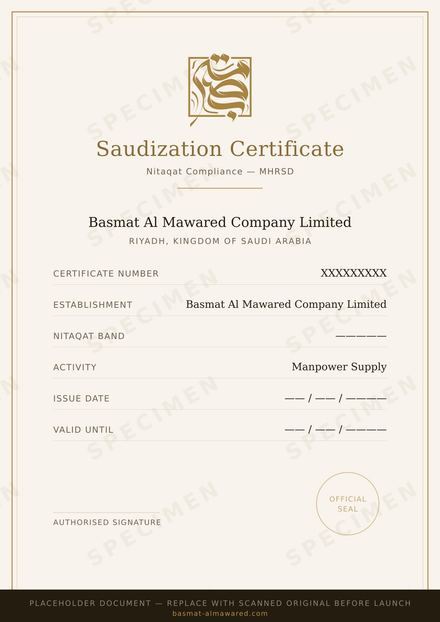
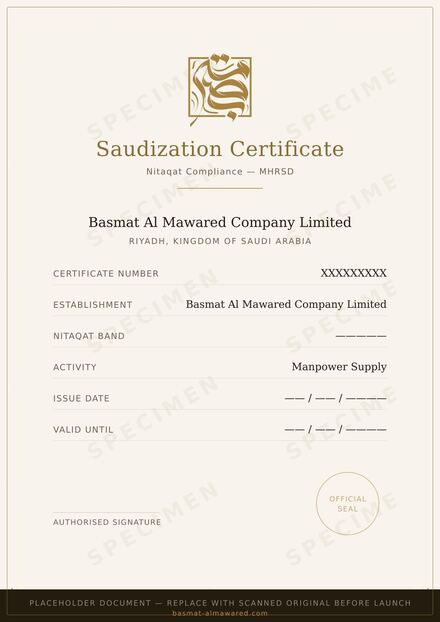
Thin the certificate frame by 40% and pin corners to 5px
The heavy border was drawn into the placeholder JPEGs, not applied by CSS,
so the artwork itself had to change. The old frame was a 2px gold rule at a
33px inset plus a second inner hairline. Both are removed and replaced with
a single 1.2px rule at a 20px inset with a 5px corner radius.

Erasing the old frame by hue left anti-aliased ghost lines, so the clear
works on distance-from-cream instead, bounded to the outer ring and stopping
above the footer bar. The SPECIMEN watermark sits close enough to the paper
colour to survive untouched.

CSS was fighting the artwork too. refinements.css loads last and its shared
radius groups were overriding the 5px in clients.css, rounding .cert-thumb
to 8px and the card to 12px. All three surfaces are pulled out of those
groups and pinned to 5px.

Thumbnails regenerated. Files are also about 25% smaller.

Changed region(s): [[0.0, 0.0, 1.0, 0.9469]]

diff --git a/index.html b/index.html
@@ -42,12 +42,12 @@
   <link href="assets/vendor/swiper/swiper-bundle.min.css" rel="stylesheet">
 
   <!-- Main CSS File -->
-  <link href="assets/css/main.css?v=44" rel="stylesheet">
+  <link href="assets/css/main.css?v=45" rel="stylesheet">
 
-  <link href="assets/css/hero-slider.css?v=44" rel="stylesheet">
-  <link href="assets/css/clients.css?v=44" rel="stylesheet">
-  <link href="assets/css/cookie.css?v=44" rel="stylesheet">
-  <link href="assets/css/coverage.css?v=44" rel="stylesheet">
+  <link href="assets/css/hero-slider.css?v=45" rel="stylesheet">
+  <link href="assets/css/clients.css?v=45" rel="stylesheet">
+  <link href="assets/css/cookie.css?v=45" rel="stylesheet">
+  <link href="assets/css/coverage.css?v=45" rel="stylesheet">
 
   <!-- =======================================================
   * Template Name: HeroBiz
@@ -82,7 +82,7 @@
   }
   </script>
 
-<link href="assets/css/refinements.css?v=44" rel="stylesheet">
+<link href="assets/css/refinements.css?v=45" rel="stylesheet">
 
 </head>
 
@@ -654,7 +654,7 @@
                 </p>
               </div>
               <div class="col-lg-4 order-1 order-lg-2 text-center">
-                <img src="assets/img/features/features-1.jpg?v=44" alt="Logistics and warehousing workforce" class="img-fluid rounded" width="1000" height="625" loading="lazy" decoding="async">
+                <img src="assets/img/features/features-1.jpg?v=45" alt="Logistics and warehousing workforce" class="img-fluid rounded" width="1000" height="625" loading="lazy" decoding="async">
               </div>
             </div>
           </div><!-- End Tab Content 1 -->
@@ -676,7 +676,7 @@
                 </p>
               </div>
               <div class="col-lg-4 order-1 order-lg-2 text-center">
-                <img src="assets/img/features/features-2.jpg?v=44" alt="Industrial and manufacturing workforce" class="img-fluid rounded" width="1000" height="625" loading="lazy" decoding="async">
+                <img src="assets/img/features/features-2.jpg?v=45" alt="Industrial and manufacturing workforce" class="img-fluid rounded" width="1000" height="625" loading="lazy" decoding="async">
               </div>
             </div>
           </div><!-- End Tab Content 2 -->
@@ -698,7 +698,7 @@
                 </p>
               </div>
               <div class="col-lg-4 order-1 order-lg-2 text-center">
-                <img src="assets/img/features/features-3.jpg?v=44" alt="Facilities management workforce" class="img-fluid rounded" width="1000" height="625" loading="lazy" decoding="async">
+                <img src="assets/img/features/features-3.jpg?v=45" alt="Facilities management workforce" class="img-fluid rounded" width="1000" height="625" loading="lazy" decoding="async">
               </div>
             </div>
           </div><!-- End Tab Content 3 -->
@@ -720,7 +720,7 @@
                 </p>
               </div>
               <div class="col-lg-4 order-1 order-lg-2 text-center">
-                <img src="assets/img/features/features-4.jpg?v=44" alt="Administrative support workforce" class="img-fluid rounded" width="1000" height="625" loading="lazy" decoding="async">
+                <img src="assets/img/features/features-4.jpg?v=45" alt="Administrative support workforce" class="img-fluid rounded" width="1000" height="625" loading="lazy" decoding="async">
               </div>
             </div>
           </div><!-- End Tab Content 4 -->
@@ -742,7 +742,7 @@
                 </p>
               </div>
               <div class="col-lg-4 order-1 order-lg-2 text-center">
-                <img src="assets/img/features/features-5.jpg?v=44" alt="Skilled technical and maintenance workforce" class="img-fluid rounded" width="1000" height="625" loading="lazy" decoding="async">
+                <img src="assets/img/features/features-5.jpg?v=45" alt="Skilled technical and maintenance workforce" class="img-fluid rounded" width="1000" height="625" loading="lazy" decoding="async">
               </div>
             </div>
           </div><!-- End Tab Content 5 -->
@@ -764,7 +764,7 @@
                 </p>
               </div>
               <div class="col-lg-4 order-1 order-lg-2 text-center">
-                <img src="assets/img/features/features-6.jpg?v=44" alt="General support and helper workforce" class="img-fluid rounded" width="1000" height="625" loading="lazy" decoding="async">
+                <img src="assets/img/features/features-6.jpg?v=45" alt="General support and helper workforce" class="img-fluid rounded" width="1000" height="625" loading="lazy" decoding="async">
               </div>
             </div>
           </div><!-- End Tab Content 6 -->
@@ -1323,7 +1323,7 @@
 
         <div class="coverage-inner">
 
-          <img src="assets/img/coverage-bg.jpg?v=44" alt="" aria-hidden="true"
+          <img src="assets/img/coverage-bg.jpg?v=45" alt="" aria-hidden="true"
                class="coverage-bg" width="1600" height="679"
                loading="lazy" decoding="async">
           <div class="coverage-scrim" aria-hidden="true"></div>
@@ -1348,7 +1348,7 @@
             </div>
 
             <div class="coverage-visual">
-              <img src="assets/img/coverage-map.svg?v=44"
+              <img src="assets/img/coverage-map.svg?v=45"
                    alt="Map of Saudi Arabia showing Basmat Al Mawared head office in Riyadh and deployment coverage across twelve cities including Jeddah, Dammam, Makkah, Madinah, NEOM, Jubail, Yanbu, Tabuk, Abha, Hail and Buraydah"
                    class="coverage-map" width="600" height="520"
                    loading="lazy" decoding="async">

diff --git a/cv-builder.html b/cv-builder.html
@@ -27,11 +27,11 @@
   <link href="assets/vendor/swiper/swiper-bundle.min.css" rel="stylesheet">
 
   <!-- Main CSS File -->
-  <link href="assets/css/main.css?v=44" rel="stylesheet">
-  <link href="assets/css/careers.css?v=44" rel="stylesheet">
-  <link href="assets/css/cv-print.css?v=44" rel="stylesheet">
+  <link href="assets/css/main.css?v=45" rel="stylesheet">
+  <link href="assets/css/careers.css?v=45" rel="stylesheet">
+  <link href="assets/css/cv-print.css?v=45" rel="stylesheet">
 
-  <link href="assets/css/cookie.css?v=44" rel="stylesheet">
+  <link href="assets/css/cookie.css?v=45" rel="stylesheet">
 
   <!-- =======================================================
   * Template Name: HeroBiz
@@ -40,7 +40,7 @@
   * Author: BootstrapMade.com
   * License: https://bootstrapmade.com/license/
   ======================================================== -->
-<link href="assets/css/refinements.css?v=44" rel="stylesheet">
+<link href="assets/css/refinements.css?v=45" rel="stylesheet">
 </head>
 
 <body class="cv-builder-page">

diff --git a/assets/css/refinements.css b/assets/css/refinements.css
@@ -526,7 +526,6 @@ a,
 .form-select,
 textarea.form-control,
 .field-help,
-.cert-thumb,
 .tag,
 .badge,
 .job-tag,
@@ -544,8 +543,6 @@ textarea.form-control,
 .post-item,
 .post-img img,
 .pricing-item,
-.cert-card,
-.cert-card img,
 .faq-item,
 .info-item,
 .php-email-form,
@@ -1500,5 +1497,20 @@ body {
     padding: 16px 18px;
   }
   .credential-icon { margin-bottom: 0; flex: none; }
+}
+
+/* =========================================================
+   CERTIFICATE CORNERS
+   ---------------------------------------------------------
+   Pulled out of the shared radius scale at your request. The scale puts
+   these at 8px and 12px; a document reads better with a tighter corner,
+   so all three surfaces are pinned to 5px and match the 5px radius now
+   drawn on the artwork itself.
+   ========================================================= */
+
+.certificates .cert-card,
+.certificates .cert-card img,
+.certificates .cert-thumb {
+  border-radius: 5px;
 }
 

diff --git a/cookie-policy.html b/cookie-policy.html
@@ -27,9 +27,9 @@
   <link href="assets/vendor/swiper/swiper-bundle.min.css" rel="stylesheet">
 
   <!-- Main CSS File -->
-  <link href="assets/css/main.css?v=44" rel="stylesheet">
-  <link href="assets/css/careers.css?v=44" rel="stylesheet">
-  <link href="assets/css/cookie.css?v=44" rel="stylesheet">
+  <link href="assets/css/main.css?v=45" rel="stylesheet">
+  <link href="assets/css/careers.css?v=45" rel="stylesheet">
+  <link href="assets/css/cookie.css?v=45" rel="stylesheet">
 
   <!-- =======================================================
   * Template Name: HeroBiz
@@ -38,7 +38,7 @@
   * Author: BootstrapMade.com
   * License: https://bootstrapmade.com/license/
   ======================================================== -->
-<link href="assets/css/refinements.css?v=44" rel="stylesheet">
+<link href="assets/css/refinements.css?v=45" rel="stylesheet">
 </head>
 
 <body class="cookie-policy-page">

diff --git a/careers.html b/careers.html
@@ -27,10 +27,10 @@
   <link href="assets/vendor/swiper/swiper-bundle.min.css" rel="stylesheet">
 
   <!-- Main CSS File -->
-  <link href="assets/css/main.css?v=44" rel="stylesheet">
-  <link href="assets/css/careers.css?v=44" rel="stylesheet">
+  <link href="assets/css/main.css?v=45" rel="stylesheet">
+  <link href="assets/css/careers.css?v=45" rel="stylesheet">
 
-  <link href="assets/css/cookie.css?v=44" rel="stylesheet">
+  <link href="assets/css/cookie.css?v=45" rel="stylesheet">
 
   <!-- =======================================================
   * Template Name: HeroBiz
@@ -39,7 +39,7 @@
   * Author: BootstrapMade.com
   * License: https://bootstrapmade.com/license/
   ======================================================== -->
-<link href="assets/css/refinements.css?v=44" rel="stylesheet">
+<link href="assets/css/refinements.css?v=45" rel="stylesheet">
 </head>
 
 <body class="careers-page">

diff --git a/apply.html b/apply.html
@@ -27,10 +27,10 @@
   <link href="assets/vendor/swiper/swiper-bundle.min.css" rel="stylesheet">
 
   <!-- Main CSS File -->
-  <link href="assets/css/main.css?v=44" rel="stylesheet">
-  <link href="assets/css/careers.css?v=44" rel="stylesheet">
+  <link href="assets/css/main.css?v=45" rel="stylesheet">
+  <link href="assets/css/careers.css?v=45" rel="stylesheet">
 
-  <link href="assets/css/cookie.css?v=44" rel="stylesheet">
+  <link href="assets/css/cookie.css?v=45" rel="stylesheet">
 
   <!-- =======================================================
   * Template Name: HeroBiz
@@ -39,7 +39,7 @@
   * Author: BootstrapMade.com
   * License: https://bootstrapmade.com/license/
   ======================================================== -->
-<link href="assets/css/refinements.css?v=44" rel="stylesheet">
+<link href="assets/css/refinements.css?v=45" rel="stylesheet">
 </head>
 
 <body class="apply-page">

diff --git a/portfolio-details.html b/portfolio-details.html
@@ -25,9 +25,9 @@
   <link href="assets/vendor/swiper/swiper-bundle.min.css" rel="stylesheet">
 
   <!-- Main CSS File -->
-  <link href="assets/css/main.css?v=44" rel="stylesheet">
+  <link href="assets/css/main.css?v=45" rel="stylesheet">
 
-  <link href="assets/css/cookie.css?v=44" rel="stylesheet">
+  <link href="assets/css/cookie.css?v=45" rel="stylesheet">
 
   <!-- =======================================================
   * Template Name: HeroBiz
@@ -36,7 +36,7 @@
   * Author: BootstrapMade.com
   * License: https://bootstrapmade.com/license/
   ======================================================== -->
-<link href="assets/css/refinements.css?v=44" rel="stylesheet">
+<link href="assets/css/refinements.css?v=45" rel="stylesheet">
 </head>
 
 <body class="portfolio-details-page">

diff --git a/service-details.html b/service-details.html
@@ -25,9 +25,9 @@
   <link href="assets/vendor/swiper/swiper-bundle.min.css" rel="stylesheet">
 
   <!-- Main CSS File -->
-  <link href="assets/css/main.css?v=44" rel="stylesheet">
+  <link href="assets/css/main.css?v=45" rel="stylesheet">
 
-  <link href="assets/css/cookie.css?v=44" rel="stylesheet">
+  <link href="assets/css/cookie.css?v=45" rel="stylesheet">
 
   <!-- =======================================================
   * Template Name: HeroBiz
@@ -36,7 +36,7 @@
   * Author: BootstrapMade.com
   * License: https://bootstrapmade.com/license/
   ======================================================== -->
-<link href="assets/css/refinements.css?v=44" rel="stylesheet">
+<link href="assets/css/refinements.css?v=45" rel="stylesheet">
 </head>
 
 <body class="service-details-page">

diff --git a/blog-details.html b/blog-details.html
@@ -25,9 +25,9 @@
   <link href="assets/vendor/swiper/swiper-bundle.min.css" rel="stylesheet">
 
   <!-- Main CSS File -->
-  <link href="assets/css/main.css?v=44" rel="stylesheet">
+  <link href="assets/css/main.css?v=45" rel="stylesheet">
 
-  <link href="assets/css/cookie.css?v=44" rel="stylesheet">
+  <link href="assets/css/cookie.css?v=45" rel="stylesheet">
 
   <!-- =======================================================
   * Template Name: HeroBiz
@@ -36,7 +36,7 @@
   * Author: BootstrapMade.com
   * License: https://bootstrapmade.com/license/
   ======================================================== -->
-<link href="assets/css/refinements.css?v=44" rel="stylesheet">
+<link href="assets/css/refinements.css?v=45" rel="stylesheet">
 </head>
 
 <body class="blog-details-page">

diff --git a/starter-page.html b/starter-page.html
@@ -25,9 +25,9 @@
   <link href="assets/vendor/swiper/swiper-bundle.min.css" rel="stylesheet">
 
   <!-- Main CSS File -->
-  <link href="assets/css/main.css?v=44" rel="stylesheet">
+  <link href="assets/css/main.css?v=45" rel="stylesheet">
 
-  <link href="assets/css/cookie.css?v=44" rel="stylesheet">
+  <link href="assets/css/cookie.css?v=45" rel="stylesheet">
 
   <!-- =======================================================
   * Template Name: HeroBiz
@@ -36,7 +36,7 @@
   * Author: BootstrapMade.com
   * License: https://bootstrapmade.com/license/
   ======================================================== -->
-<link href="assets/css/refinements.css?v=44" rel="stylesheet">
+<link href="assets/css/refinements.css?v=45" rel="stylesheet">
 </head>
 
 <body class="starter-page-page">

diff --git a/blog.html b/blog.html
@@ -25,9 +25,9 @@
   <link href="assets/vendor/swiper/swiper-bundle.min.css" rel="stylesheet">
 
   <!-- Main CSS File -->
-  <link href="assets/css/main.css?v=44" rel="stylesheet">
+  <link href="assets/css/main.css?v=45" rel="stylesheet">
 
-  <link href="assets/css/cookie.css?v=44" rel="stylesheet">
+  <link href="assets/css/cookie.css?v=45" rel="stylesheet">
 
   <!-- =======================================================
   * Template Name: HeroBiz
@@ -36,7 +36,7 @@
   * Author: BootstrapMade.com
   * License: https://bootstrapmade.com/license/
   ======================================================== -->
-<link href="assets/css/refinements.css?v=44" rel="stylesheet">
+<link href="assets/css/refinements.css?v=45" rel="stylesheet">
 </head>
 
 <body class="blog-page">

diff --git a/admin/index.html b/admin/index.html
@@ -13,7 +13,7 @@
   <link href="https://fonts.googleapis.com/css2?family=Roboto:wght@300;400;500;600;700&display=swap" rel="stylesheet">
   <link href="../assets/vendor/bootstrap/css/bootstrap.min.css" rel="stylesheet">
   <link href="../assets/vendor/bootstrap-icons/bootstrap-icons.css" rel="stylesheet">
-  <link href="admin.css?v=44" rel="stylesheet">
+  <link href="admin.css?v=45" rel="stylesheet">
 </head>
 
 <body>
@@ -280,7 +280,7 @@
   <!-- Toast -->
   <div id="toast" class="toast-bam"></div>
 
-  <script src="admin.js?v=44"></script>
+  <script src="admin.js?v=45"></script>
 </body>
 
 </html>
